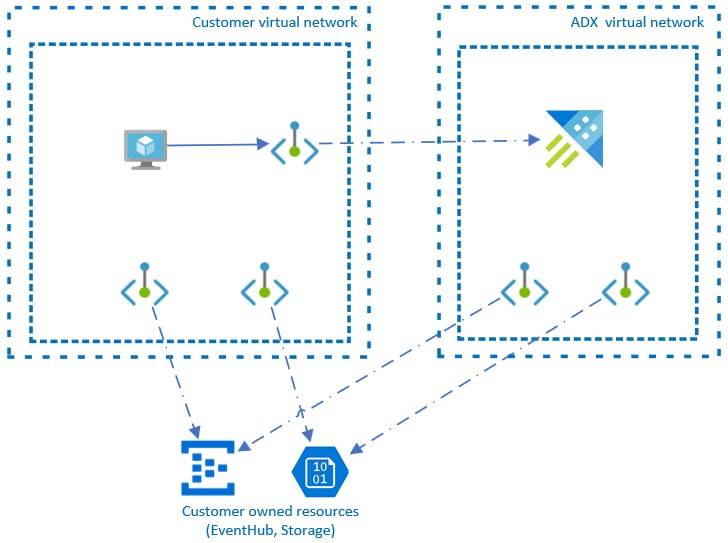
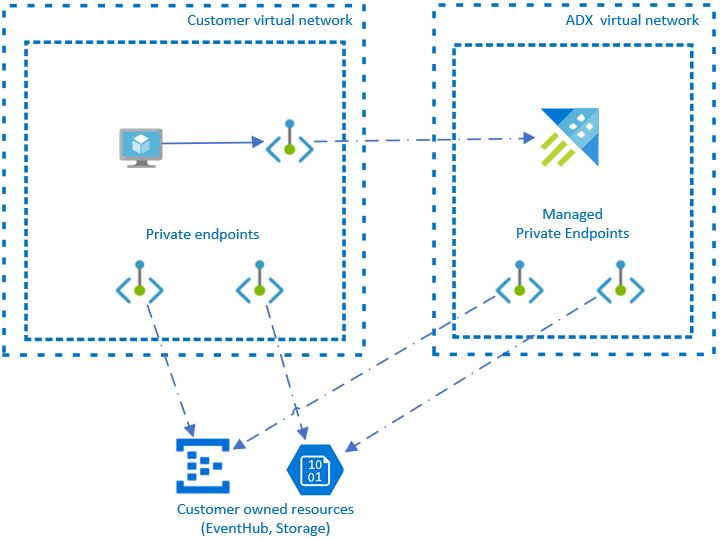
adds managed private endpoint docs

diff --git a/data-explorer/security-network-managed-private-endpoint-create.md b/data-explorer/security-network-managed-private-endpoint-create.md
@@ -20,11 +20,21 @@ Managed Private Endpoints are necessary to connect to other Azure Platform servi
 
 ## Create a Managed Private Endpoint using the portal
 
-foo bar
+![Start the creation of an Azure Private Endpoint.](media/security-network-private-endpoint/mpe-create-1.png)
+
+![Start the creation of an Azure Private Endpoint.](media/security-network-private-endpoint/mpe-create-2.png)
 
 ## Create a Managed Private Endpoint using the API
 
-foo bar
+Creating a Managed Private Endpoint using the API requires a single API call to the Kusto resource provider. You can establish a Managed Private Endpoint to the following resource types:
+
+* Microsoft.Storage/storageAccounts (sub-resource may be "blob" or "dfs")
+* Microsoft.EventHub/namespaces (sub-resource "namespace")
+* Microsoft.Devices/IoTHubs (sub-resource "iotHub")
+* Microsoft.KeyVault/vaults (sub-resource "vault")
+* Microsoft.Sql/servers (sub-resource "servers")
+* Microsoft.Kusto/clusters (sub-resource "cluster")
+* Microsoft.DigitalTwins/digitalTwinsInstance (sub-resource "digitaltwinsinstance")
 
 ### Prerequisites for an API based creation
 

diff --git a/data-explorer/security-network-private-endpoint.md b/data-explorer/security-network-private-endpoint.md
@@ -81,6 +81,7 @@ With the help of a managed private endpoint, you will enable the ADX cluster to 
 Azure Data Explorer supports creating Managed Private Endpoints to the following services:
 
 * [Azure Event Hubs](/azure/event-hubs/event-hubs-about)
+* [Azure IoT Hubs](/azure/iot-hub/iot-concepts-and-iot-hub)
 * [Azure Storage Account](/azure/storage/blobs/storage-blobs-overview)
 * [Azure Data Explorer](data-explorer-overview.md)
 * [Azure SQL](/azure/azure-sql/azure-sql-iaas-vs-paas-what-is-overview)
